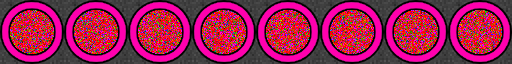
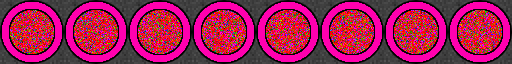
Removed unused files from the assets folder. Improved TP tile texture slightly. Fixed issue with the default mappack. Added the DEFAULT pack to the main menu dropdown.

diff --git a/Java/core/src/com/jdp30/ArrowDrift/game/ArrowDriftGame.java b/Java/core/src/com/jdp30/ArrowDrift/game/ArrowDriftGame.java
@@ -51,8 +51,9 @@ public class ArrowDriftGame extends Game {
 
     public static String[] getPacks() {
         FileHandle[] files = Gdx.files.external("Arrow Drift Data/Levels/").list();
-        String[] out = new String[files.length];
-        for (int i = 0; i != out.length; i++) {
+        String[] out = new String[files.length + 1];
+        out[0] = "DEFAULT";
+        for (int i = 1; i != out.length; i++) {
             out[i] = files[i].name();
         }
         return out;
